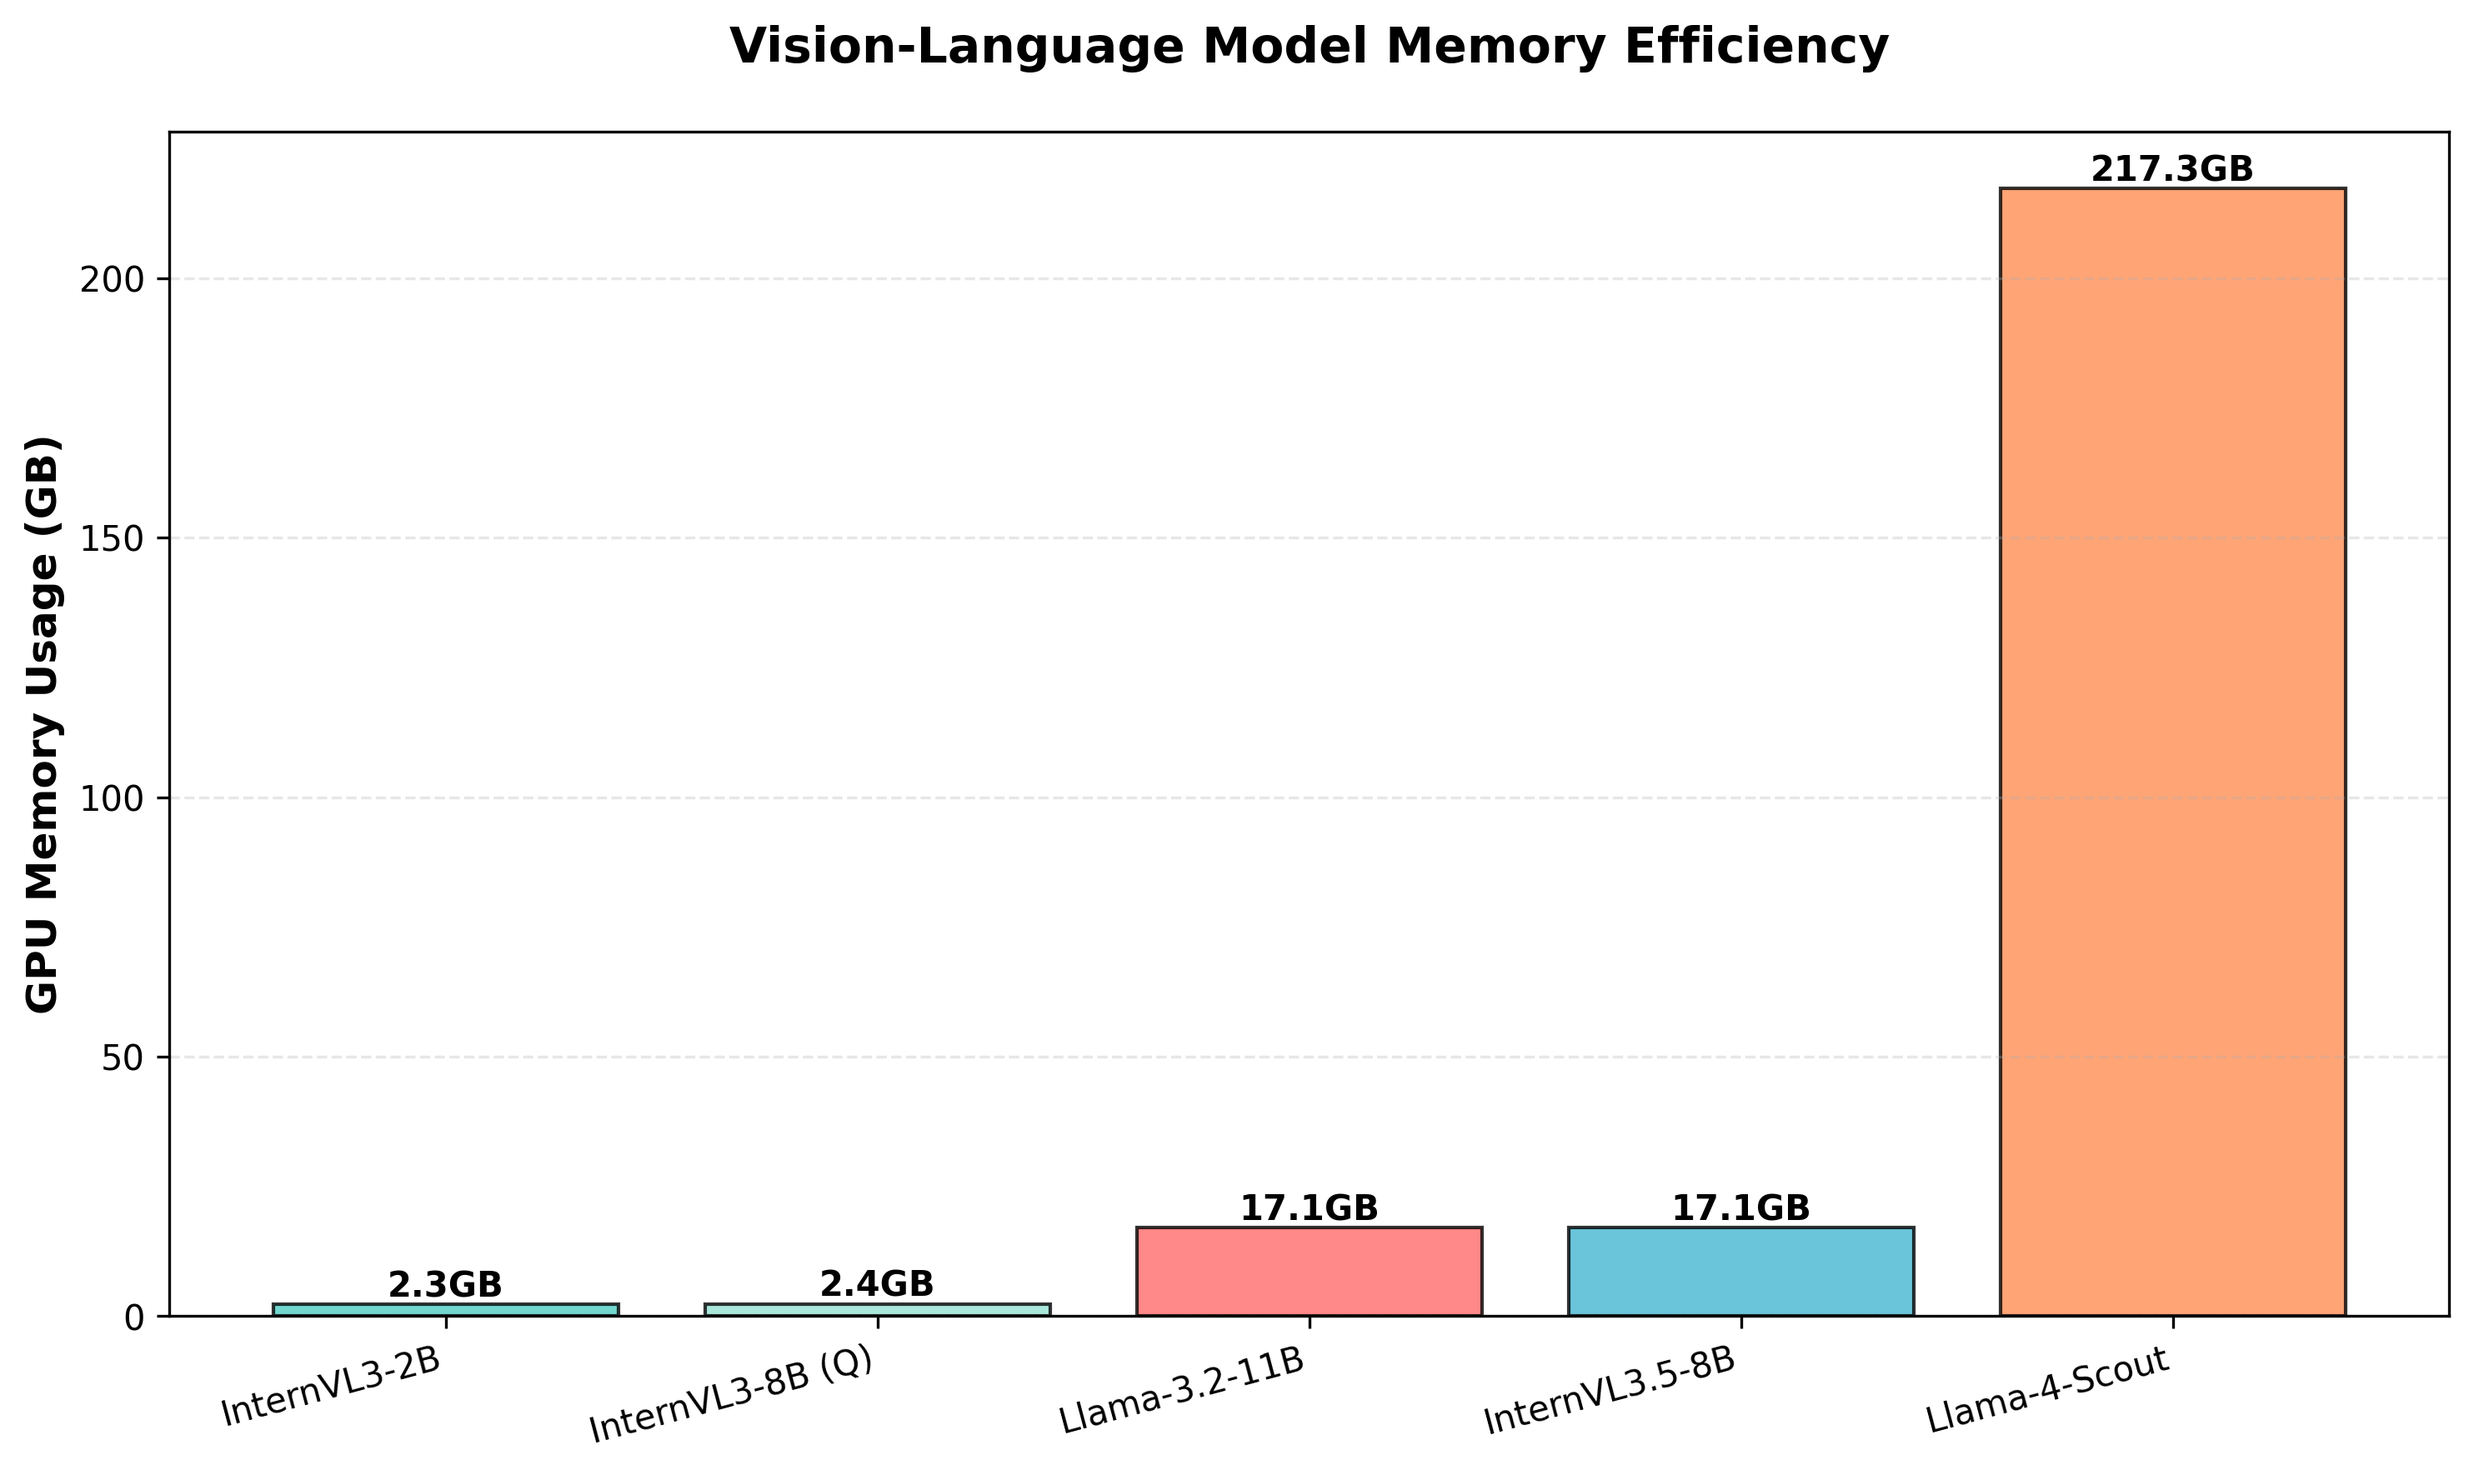
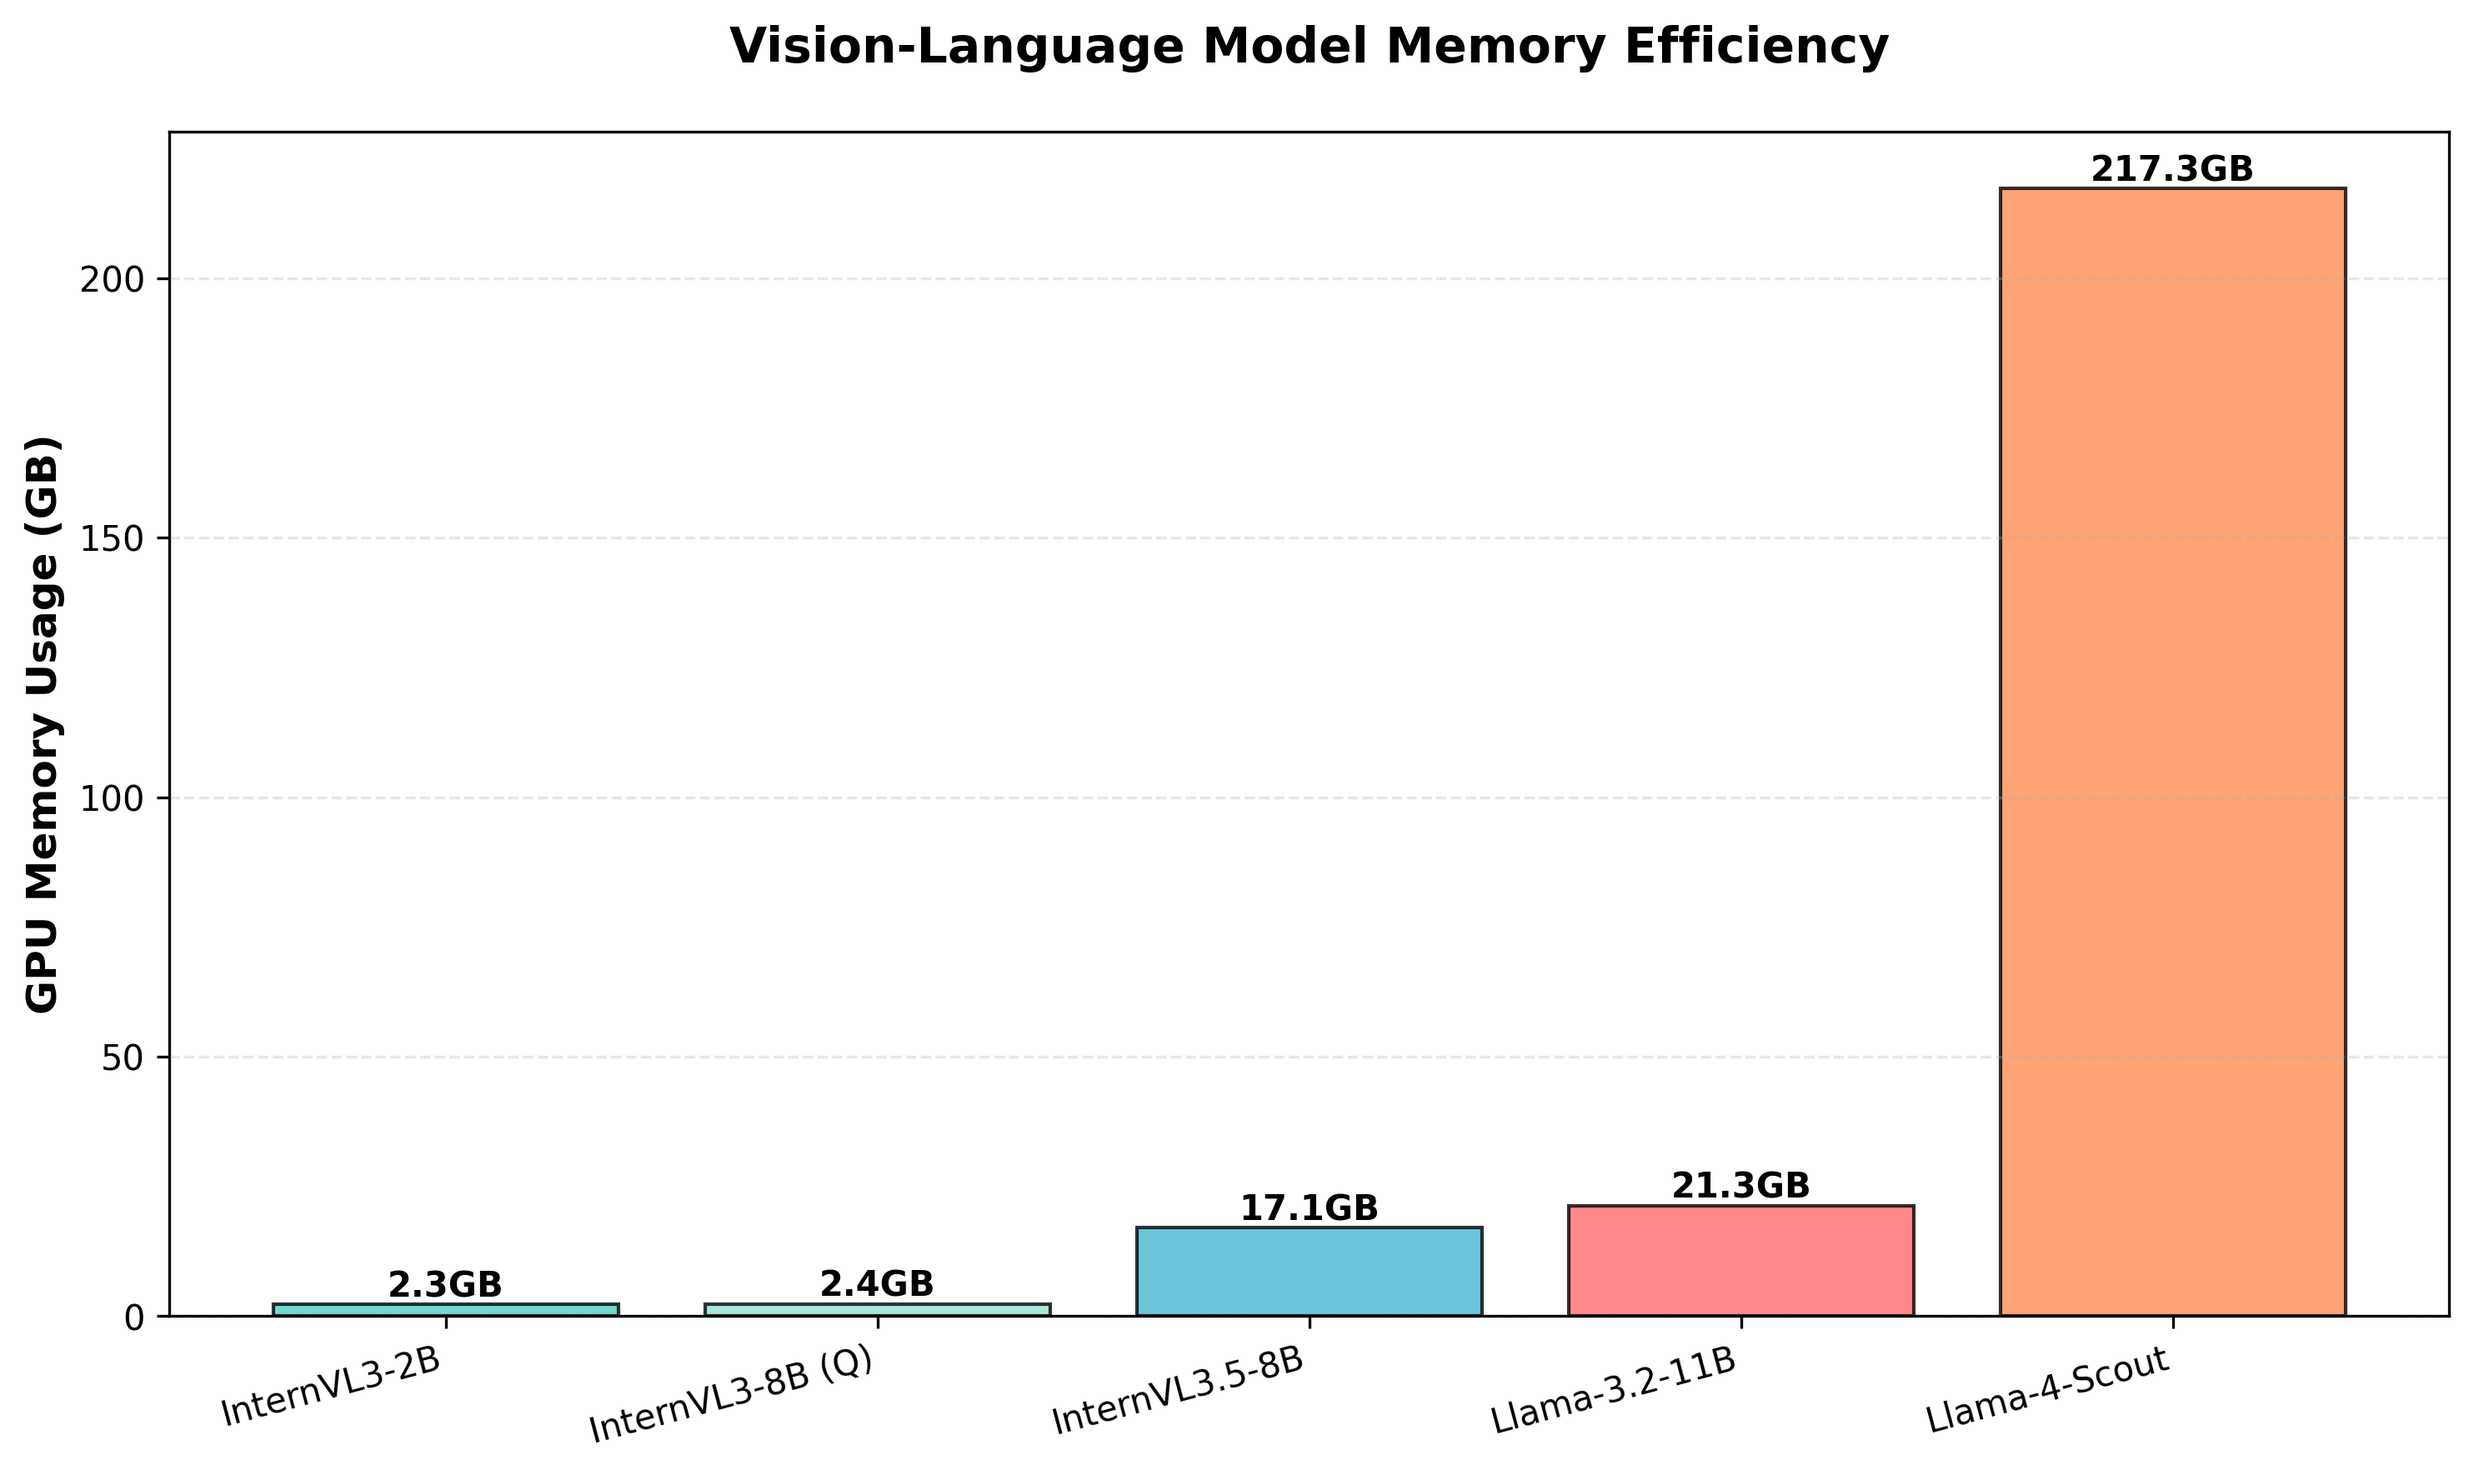
Update memory usage details in MODEL_COMPARISON_REPORT.md and visualization script; correct memory values for Llama-3.2-11B and InternVL3.5-8B for accuracy.

Changed region(s): [[0.434, 0.7768, 0.7749, 0.9633], [0.434, 0.9322, 0.496, 0.9633]]

diff --git a/create_model_comparison_visualizations.py b/create_model_comparison_visualizations.py
@@ -46,11 +46,11 @@ MODELS = {
 
 # Memory usage data (from MODEL_COMPARISON_REPORT.md)
 MEMORY_USAGE = {
-    "Llama-3.2-11B": 17.06,  # GB
+    "Llama-3.2-11B": 21.3,  # GB (21.3GB allocated across 2x H200)
     "Llama-4-Scout": 217.28,  # GB (MoE multi-GPU)
     "InternVL3-2B": 2.29,
     "InternVL3-8B (Q)": 2.38,
-    "InternVL3.5-8B": 17.06,  # GB (same as Llama-3.2-11B)
+    "InternVL3.5-8B": 17.06,  # GB (17.06GB allocated across 2x H200)
 }
 
 

diff --git a/MODEL_COMPARISON_REPORT.md b/MODEL_COMPARISON_REPORT.md
@@ -11,7 +11,7 @@
 Tested 5 vision-language models for document extraction accuracy and performance:
 - **Winner (Accuracy)**: Llama-4-Scout (91.3% overall)
 - **Winner (Speed)**: Llama-3.2-11B (11.25s/image)
-- **Best Value**: InternVL3.5-8B (83.6% accuracy, same memory as Llama-3.2-11B)
+- **Best Value**: InternVL3.5-8B (83.6% accuracy, 17GB memory - 20% less than Llama-3.2-11B)
 - **Most Efficient**: InternVL3-2B (2.3GB memory, 12.66s/image)
 - **Best for Bank Statements**: Llama-4-Scout (78.8% accuracy)
 
@@ -22,7 +22,7 @@ Tested 5 vision-language models for document extraction accuracy and performance
 | Model | Size | Speed (s/img) | Throughput (img/min) | Overall Accuracy | Memory Usage |
 |-------|------|---------------|---------------------|-----------------|--------------|
 | **Llama-4-Scout** | 17B active (109B total) | 39.20 | 1.5 | **91.3%** 🥇 | ~217GB (multi-GPU) |
-| **Llama-3.2-11B** | 11B | **11.25** ⚡ | **5.3** | **88.4%** 🥈 | ~17GB (multi-GPU) |
+| **Llama-3.2-11B** | 11B | **11.25** ⚡ | **5.3** | **88.4%** 🥈 | ~21GB (multi-GPU) |
 | **InternVL3.5-8B** | 8.5B | 14.76 | 4.1 | **83.6%** 🥉 | ~17GB (multi-GPU) |
 | **InternVL3-2B** | 2B | 12.66 | 4.7 | 74.1% | **~2.3GB** 💾 |
 | **InternVL3-8B (Q)** | 8B | 34.96 | 1.7 | 64.1% | ~2.4GB |
@@ -100,16 +100,16 @@ Llama-4-Scout    █████████████████████
 InternVL3-2B     ██ 2.3GB  (Most efficient) 💾
 InternVL3-8B (Q) ██ 2.4GB  (Quantized)
 InternVL3.5-8B   █████████████████ 17GB (Multi-GPU)
-Llama-3.2-11B    █████████████████ 17GB (Multi-GPU)
+Llama-3.2-11B    █████████████████████ 21GB (Multi-GPU)
 Llama-4-Scout    ████████████████████████████████████████████████████████████████████████████ 217GB (MoE Multi-GPU)
 ```
 
 **Analysis**:
-- InternVL3-2B is the **most memory efficient** at only 2.3GB (7x more efficient than Llama-3.2-11B)
-- InternVL3.5-8B and Llama-3.2-11B both use **~17GB** with multi-GPU distribution
+- InternVL3-2B is the **most memory efficient** at only 2.3GB (9x more efficient than Llama-3.2-11B)
+- InternVL3.5-8B uses **~17GB** while Llama-3.2-11B uses **~21GB** with multi-GPU distribution
 - Llama-4-Scout requires **massive memory** (217GB across 2x H200) due to 109B MoE architecture
 - Quantization saves minimal memory but **severely impacts speed** for InternVL3-8B
-- **Surprise finding**: InternVL3.5-8B requires same memory as Llama-3.2-11B (both ~17GB)
+- **Memory efficiency finding**: InternVL3.5-8B uses 20% less memory than Llama-3.2-11B (17GB vs 21GB) while maintaining competitive accuracy
 
 ![Memory Usage Comparison](output/visualizations/model_memory_comparison.png)
 
@@ -159,7 +159,7 @@ Llama-4-Scout    █████████████████████
 **Strengths**:
 - ✅ Third-best accuracy (83.6%)
 - ✅ Second-best for bank statements (72.3%)
-- ✅ Same memory footprint as Llama-3.2-11B (~17GB multi-GPU)
+- ✅ 20% lower memory footprint than Llama-3.2-11B (~17GB vs ~21GB multi-GPU)
 - ✅ Cascade RL improves reasoning
 - ✅ Visual Resolution Router helps with tables
 - ✅ Competitive speed (14.76s)
@@ -295,7 +295,7 @@ Average accuracy by document type:
 | Model | Allocated | Reserved | Total | GPUs |
 |-------|-----------|----------|-------|------|
 | Llama-4-Scout | 217.28 GB | 217.29 GB | 300 GB | 2x H200 |
-| Llama-3.2-11B | 17.06 GB | 17.11 GB | 300 GB | 2x H200 |
+| Llama-3.2-11B | 21.3 GB | 21.4 GB | 300 GB | 2x H200 |
 | InternVL3.5-8B | 17.06 GB | 17.11 GB | 300 GB | 2x H200 |
 | InternVL3-2B | 2.29 GB | 2.32 GB | 150 GB | 1x H200 |
 | InternVL3-8B (Q) | 2.38 GB | 2.41 GB | 150 GB | 1x H200 |
@@ -321,16 +321,16 @@ Average accuracy by document type:
 
 1. **Llama-4-Scout** is the **new accuracy leader** (91.3% overall, 78.8% bank statements) with MoE architecture
 2. **Llama-3.2-11B** remains the **speed champion** (11.25s/image) with excellent accuracy (88.4%)
-3. **InternVL3.5-8B** offers **good value** (83.6% accuracy, same 17GB memory as Llama-3.2-11B)
+3. **InternVL3.5-8B** offers **good value** (83.6% accuracy, 20% less memory than Llama-3.2-11B at 17GB)
 4. **InternVL3-2B** is the **efficiency champion** (2.3GB, 12.66s/image) for simple documents
 5. **Bank statements** remain challenging (avg 63.4%) but Llama-4-Scout achieves 78.8%
 6. **Quantization hurts** InternVL3-8B (3x slower, lowest accuracy) - avoid
-7. **Memory surprise**: InternVL3.5-8B uses same memory as Llama-3.2-11B (both ~17GB), not 2.4GB as initially expected
+7. **Memory efficiency**: InternVL3.5-8B uses 20% less memory than Llama-3.2-11B (17GB vs 21GB), making it more memory-efficient
 
 **Production Recommendation**:
 - Use **Llama-4-Scout** if you have high-end infrastructure (2x H200) and need maximum accuracy
 - Use **Llama-3.2-11B** if you need balanced speed/accuracy with standard multi-GPU setup
-- Use **InternVL3.5-8B** as alternative to Llama-3.2-11B (similar memory, 5% lower accuracy, 31% slower)
+- Use **InternVL3.5-8B** as alternative to Llama-3.2-11B (20% less memory at 17GB, 5% lower accuracy, 31% slower)
 - Use **InternVL3-2B** if you need true memory efficiency (2.3GB) with acceptable accuracy (74%)
 - Avoid InternVL3-8B quantized - use InternVL3-2B or InternVL3.5-8B instead
 
